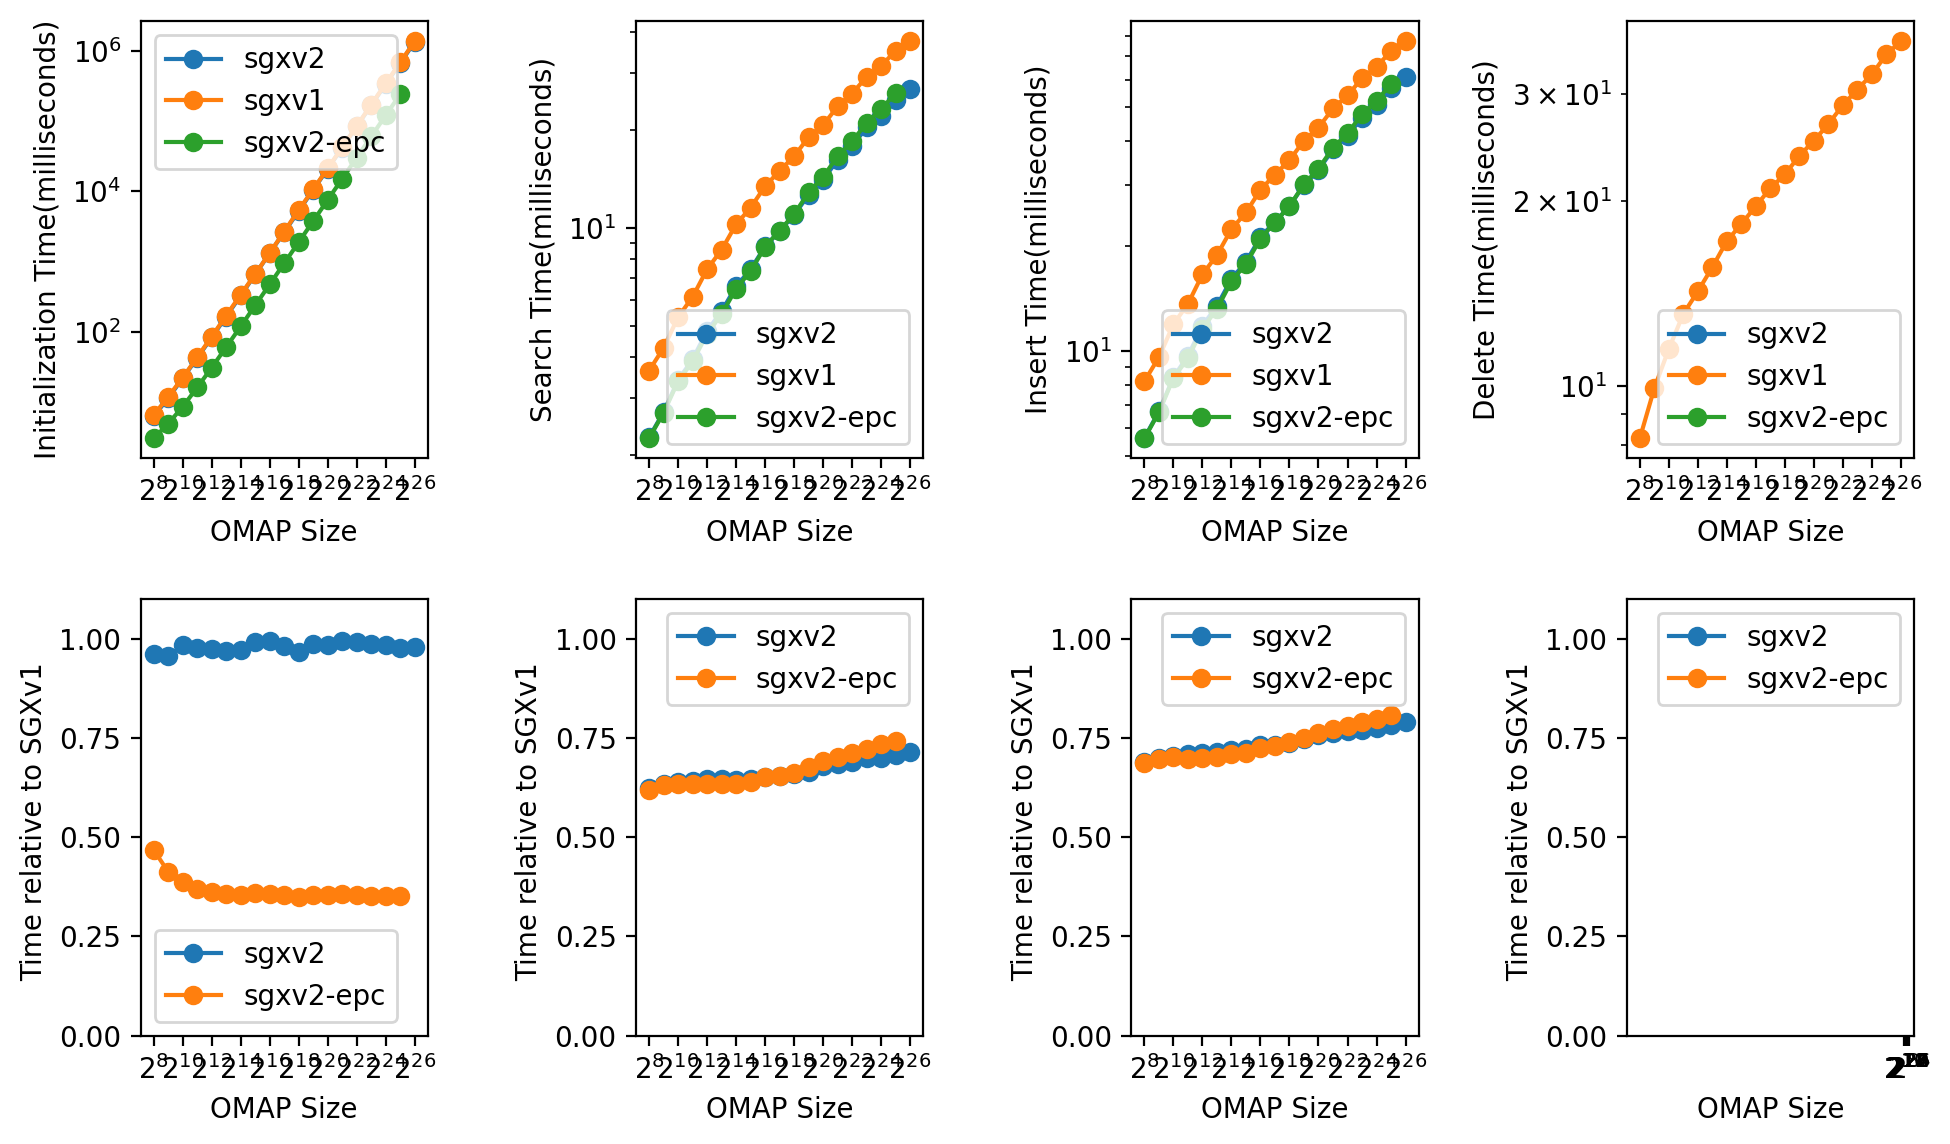
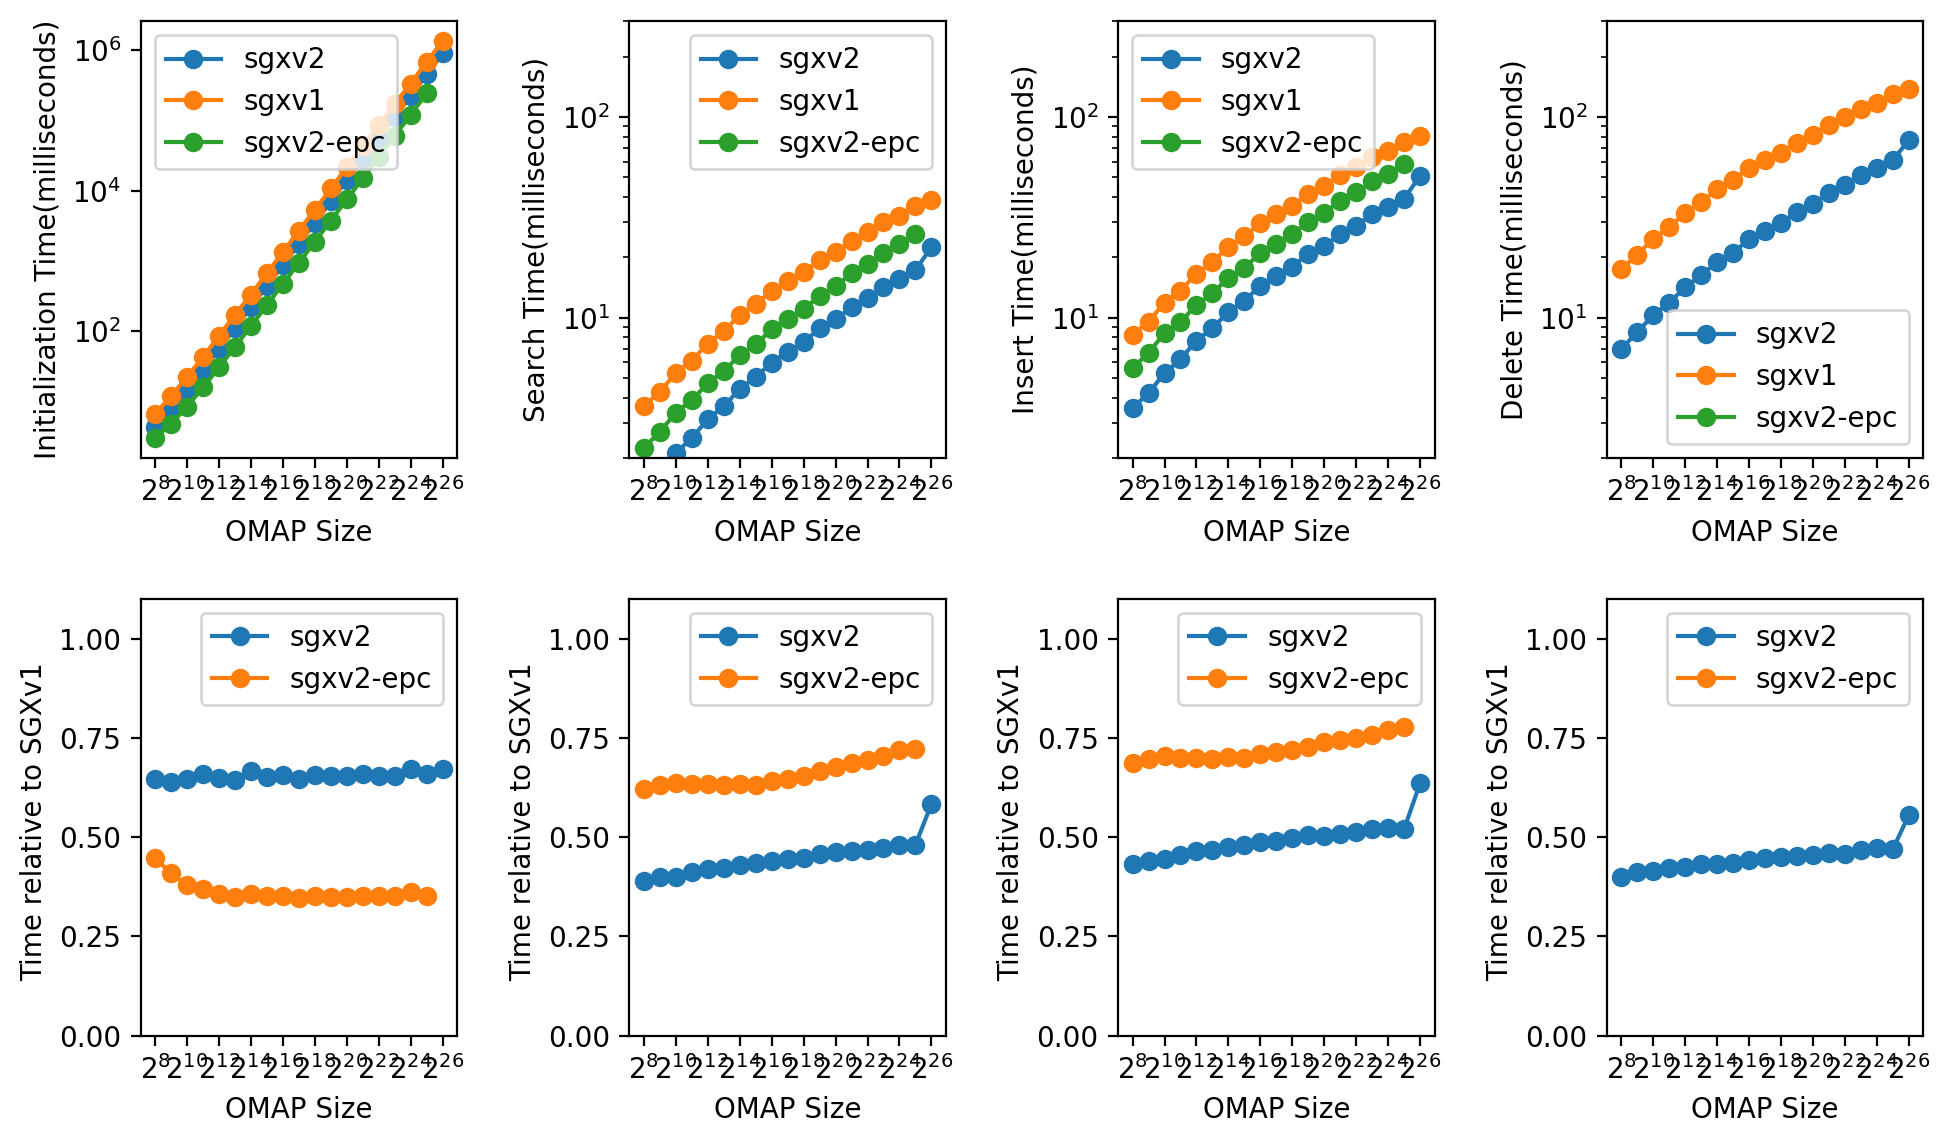
update experiment results

diff --git a/Omix++/experiment.py b/Omix++/experiment.py
@@ -80,6 +80,8 @@ def plot(sizes):
         plt.gca().set_xscale('log',basex=2)
         plt.yscale('log')
         plt.xticks(sizes[0::2])
+        if i > 0:
+            plt.ylim([2, 300])
         plt.legend()
 
     for i in range(len(plots)):
@@ -109,7 +111,7 @@ if __name__ == '__main__':
 
     sizes = 256 * 2 ** np.arange(20)
     experimentFlag = 0
-    compileFlag = 1
+    compileFlag = 0
     plotFlag = 1
     repetitions = 1
 
